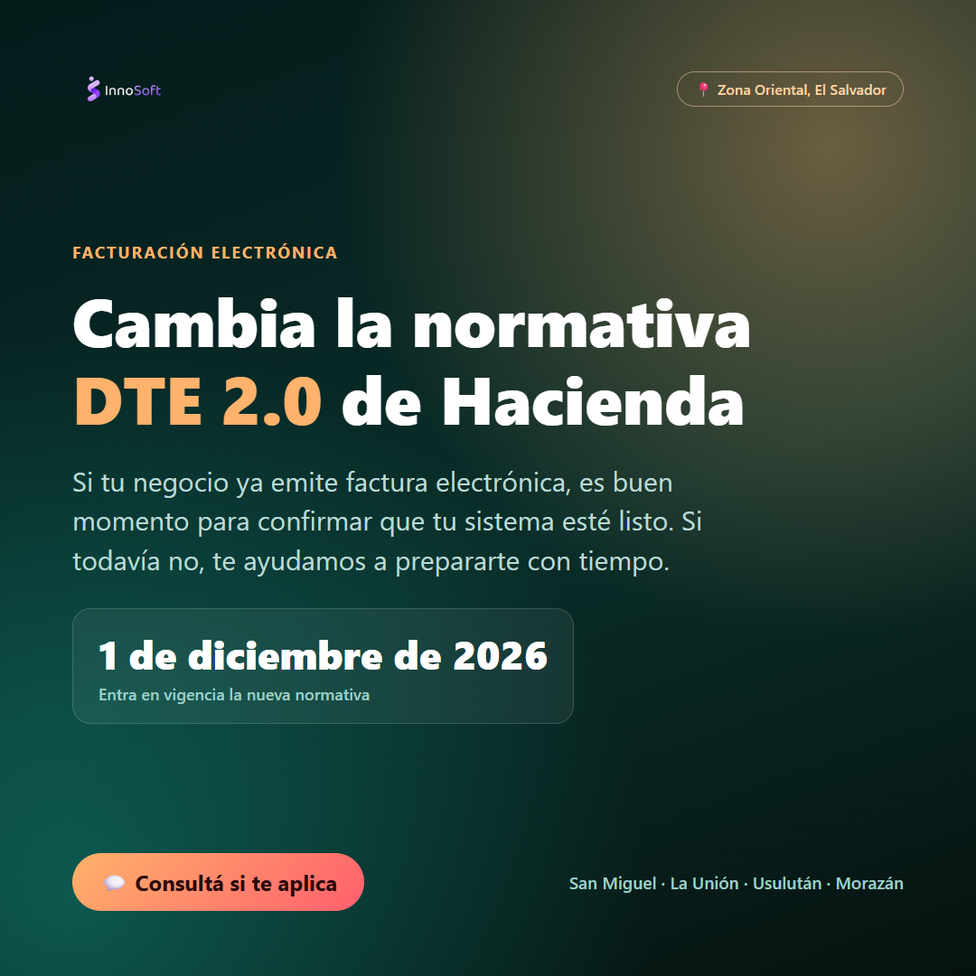
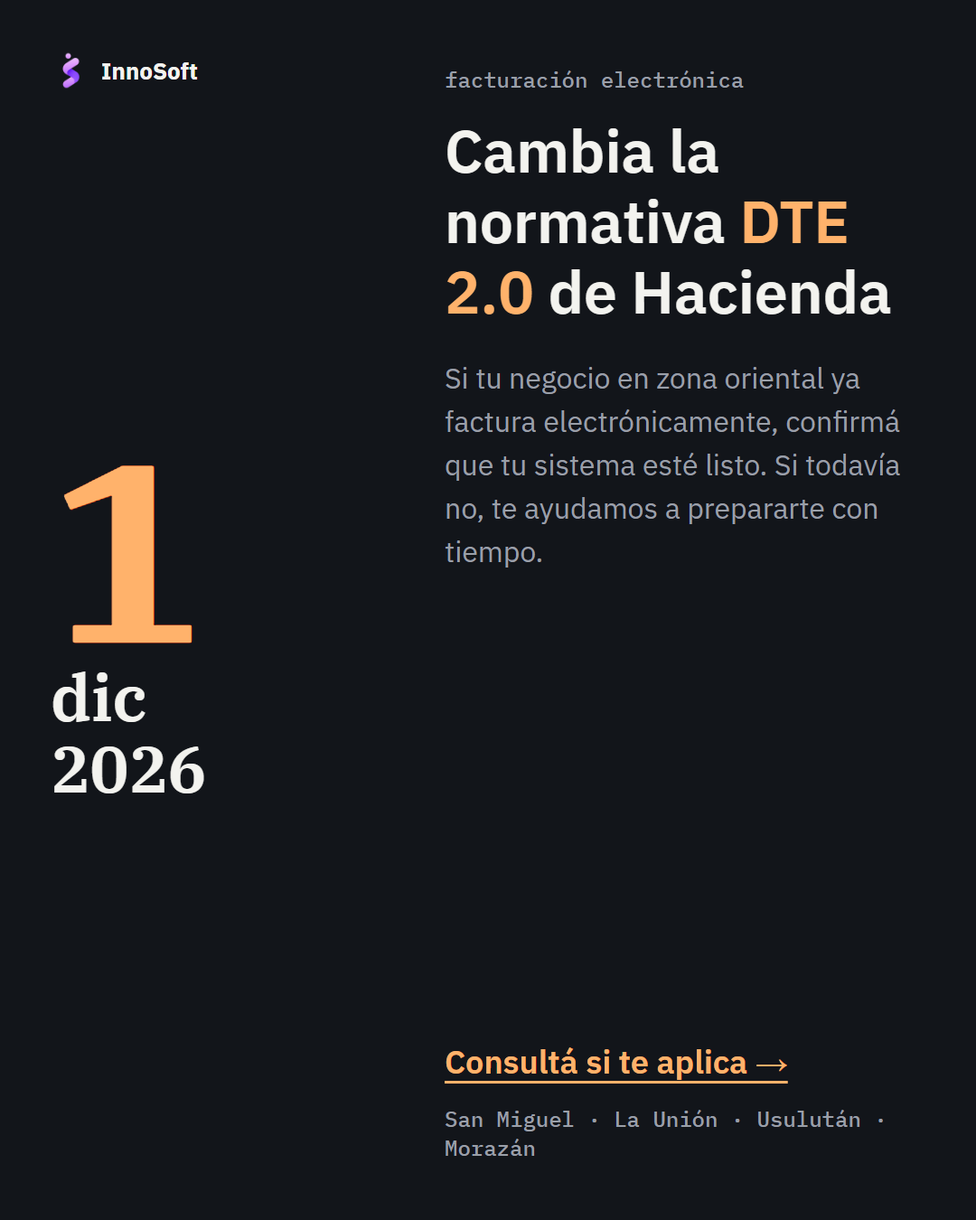
Redesign post templates: real IBM Plex/paper-ink-stamp system, not reskinned hero
Retires the single dark-gradient hero template (only bg/accent color ever
varied) after the user flagged it as repetitive/AI-looking. New direction
reuses the real site's own identity (paper/ink/stamp tokens, IBM Plex,
the real violet from invoice PDFs) instead of a separate dark-mode social
aesthetic, with composition chosen per message type (3 archetypes built:
price-as-document, date-as-calendar, service-as-index) rather than one
reused shape. Also fixes a real shipped WCAG failure (white text on
lavender, 2.10:1) and switches canvas size per real platform destination
(1080x1350 FB/IG, 1200x627 LinkedIn) instead of one-size-fits-all 1080x1080.

diff --git a/templates/archetype-a-cifra.html b/templates/archetype-a-cifra.html
@@ -1,0 +1,70 @@
+<!doctype html>
+<html>
+<head>
+<meta charset="utf-8">
+<link rel="preconnect" href="https://fonts.googleapis.com">
+<link href="https://fonts.googleapis.com/css2?family=IBM+Plex+Serif:wght@600;700&family=IBM+Plex+Sans:wght@400;500;600;700&family=IBM+Plex+Mono:wght@500;600&display=swap" rel="stylesheet">
+<style>
+  * { margin:0; padding:0; box-sizing:border-box; }
+  html,body { width:1080px; height:1350px; overflow:hidden; }
+  body {
+    font-family: 'IBM Plex Sans', Arial, sans-serif;
+    background: #f3f3ef;
+    color: #12151a;
+    padding: 72px 64px;
+    display:flex;
+    flex-direction:column;
+  }
+  .topbar { display:flex; align-items:center; gap:14px; }
+  .topbar img { height:40px; width:auto; display:block; }
+  .wordmark { font-family:'IBM Plex Sans'; font-weight:700; font-size:28px; color:#12151a; }
+  .rule { width:48px; height:1px; background:#12151a; opacity:.5; margin: 40px 0 16px; }
+  .kicker { font-family:'IBM Plex Mono'; font-weight:500; font-size:26px; color:#585d66; }
+  .figure-row { display:flex; align-items:baseline; gap:18px; margin-top: 12px; }
+  .figure { font-family:'IBM Plex Serif'; font-weight:700; font-size:220px; line-height:1; color:#12151a; }
+  .figure-unit { font-family:'IBM Plex Sans'; font-weight:500; font-size:44px; color:#585d66; }
+  .figure-caption { font-family:'IBM Plex Sans'; font-weight:400; font-size:36px; color:#585d66; margin-top: 8px; max-width: 820px; }
+  .tickets { margin-top: 56px; border-top: 1px solid rgba(18,21,26,.15); }
+  .ticket-row { display:flex; align-items:baseline; padding: 22px 0; border-bottom: 1px solid rgba(18,21,26,.15); }
+  .ticket-row .label { font-family:'IBM Plex Sans'; font-weight:500; font-size:34px; color:#12151a; white-space:nowrap; }
+  .ticket-row .dots { flex:1; border-bottom: 3px dotted #9a9a9a; margin: 0 16px; transform: translateY(-10px); }
+  .ticket-row .amount { font-family:'IBM Plex Mono'; font-weight:600; font-size:34px; color:#12151a; white-space:nowrap; }
+  .headline { font-family:'IBM Plex Sans'; font-weight:600; font-size:52px; line-height:1.25; color:#12151a; margin-top: 56px; max-width: 880px; }
+  .spacer { flex:1; }
+  .bottom { display:flex; align-items:center; justify-content:space-between; }
+  .cta { font-family:'IBM Plex Sans'; font-weight:600; font-size:38px; color:#5B21B6; text-decoration: underline; text-decoration-thickness: 3px; text-underline-offset: 8px; }
+  .locations { font-family:'IBM Plex Mono'; font-weight:500; font-size:26px; color:#585d66; text-align:right; }
+</style>
+</head>
+<body>
+  <div class="topbar">
+    <img src="../og-icon.png" alt="InnoSoft">
+    <div class="wordmark">InnoSoft</div>
+  </div>
+  <div class="rule"></div>
+  <div class="kicker">innosoft · facturación electrónica</div>
+  <div class="figure-row">
+    <div class="figure">$9.99</div>
+    <div class="figure-unit">/mes<br>desde</div>
+  </div>
+  <div class="figure-caption">Plan solo facturación electrónica — sin ERP, sin cotización a ciegas.</div>
+  <div class="tickets">
+    <div class="ticket-row">
+      <span class="label">Sistema completo + DTE</span>
+      <span class="dots"></span>
+      <span class="amount">$32/mes</span>
+    </div>
+    <div class="ticket-row">
+      <span class="label">Solo facturación (DTE)</span>
+      <span class="dots"></span>
+      <span class="amount">$9.99/mes</span>
+    </div>
+  </div>
+  <div class="headline">Ya tenés precio real, sin cotización a ciegas.</div>
+  <div class="spacer"></div>
+  <div class="bottom">
+    <div class="cta">Escribinos →</div>
+    <div class="locations">San Miguel · La Unión<br>Usulután · Morazán</div>
+  </div>
+</body>
+</html>

diff --git a/templates/archetype-b-fecha.html b/templates/archetype-b-fecha.html
@@ -1,0 +1,57 @@
+<!doctype html>
+<html>
+<head>
+<meta charset="utf-8">
+<link rel="preconnect" href="https://fonts.googleapis.com">
+<link href="https://fonts.googleapis.com/css2?family=IBM+Plex+Serif:wght@600;700&family=IBM+Plex+Sans:wght@400;500;600;700&family=IBM+Plex+Mono:wght@500;600&display=swap" rel="stylesheet">
+<style>
+  * { margin:0; padding:0; box-sizing:border-box; }
+  html,body { width:1080px; height:1350px; overflow:hidden; }
+  body {
+    font-family: 'IBM Plex Sans', Arial, sans-serif;
+    background: #12151a;
+    color: #f3f3ef;
+    display:flex;
+    position:relative;
+  }
+  .brandmark { position:absolute; top:56px; left:56px; display:flex; align-items:center; gap:12px; }
+  .brandmark img { height:44px; width:44px; object-fit:contain; display:block; }
+  .brandmark .wordmark { font-family:'IBM Plex Sans'; font-weight:700; font-size:26px; color:#f3f3ef; }
+  .left {
+    width: 460px; padding: 64px 0 64px 56px;
+    display:flex; flex-direction:column; justify-content:center;
+  }
+  .day { font-family:'IBM Plex Serif'; font-weight:700; font-size:280px; line-height:0.9; color:#ffb26b; }
+  .monthyear { font-family:'IBM Plex Serif'; font-weight:600; font-size:72px; line-height:1.1; color:#f3f3ef; margin-top: 12px; }
+  .right {
+    flex:1; padding: 72px 56px 64px 32px;
+    display:flex; flex-direction:column;
+  }
+  .kicker { font-family:'IBM Plex Mono'; font-weight:500; font-size:24px; color:#9a9fa8; }
+  .headline { font-family:'IBM Plex Sans'; font-weight:600; font-size:66px; line-height:1.18; color:#f3f3ef; margin-top: 24px; }
+  .headline .accent { color: #ffb26b; }
+  .support { font-family:'IBM Plex Sans'; font-weight:400; font-size:32px; line-height:1.5; color:#9a9fa8; margin-top: 32px; max-width: 560px; }
+  .spacer { flex:1; }
+  .cta { font-family:'IBM Plex Sans'; font-weight:600; font-size:36px; color:#ffb26b; text-decoration: underline; text-decoration-thickness: 3px; text-underline-offset: 8px; }
+  .locations { font-family:'IBM Plex Mono'; font-weight:500; font-size:24px; color:#9a9fa8; margin-top: 24px; }
+</style>
+</head>
+<body>
+  <div class="brandmark">
+    <img src="../og-icon.png" alt="InnoSoft">
+    <div class="wordmark">InnoSoft</div>
+  </div>
+  <div class="left">
+    <div class="day">1</div>
+    <div class="monthyear">dic<br>2026</div>
+  </div>
+  <div class="right">
+    <div class="kicker">facturación electrónica</div>
+    <div class="headline">Cambia la normativa <span class="accent">DTE 2.0</span> de Hacienda</div>
+    <div class="support">Si tu negocio en zona oriental ya factura electrónicamente, confirmá que tu sistema esté listo. Si todavía no, te ayudamos a prepararte con tiempo.</div>
+    <div class="spacer"></div>
+    <div class="cta">Consultá si te aplica →</div>
+    <div class="locations">San Miguel · La Unión · Usulután · Morazán</div>
+  </div>
+</body>
+</html>

diff --git a/templates/archetype-e-indice.html b/templates/archetype-e-indice.html
@@ -1,0 +1,60 @@
+<!doctype html>
+<html>
+<head>
+<meta charset="utf-8">
+<link rel="preconnect" href="https://fonts.googleapis.com">
+<link href="https://fonts.googleapis.com/css2?family=IBM+Plex+Sans+Condensed:wght@700&family=IBM+Plex+Sans:wght@400;500;600;700&family=IBM+Plex+Mono:wght@500;600&display=swap" rel="stylesheet">
+<style>
+  * { margin:0; padding:0; box-sizing:border-box; }
+  html,body { width:1200px; height:627px; overflow:hidden; }
+  body {
+    font-family: 'IBM Plex Sans', Arial, sans-serif;
+    background: #5B21B6;
+    color: #fff;
+    padding: 48px 64px;
+    display:flex;
+    flex-direction:column;
+  }
+  .topbar { display:flex; align-items:center; gap:12px; }
+  .topbar img { height:36px; width:36px; object-fit:contain; display:block; }
+  .wordmark { font-family:'IBM Plex Sans'; font-weight:700; font-size:24px; color:#fff; }
+  .kicker { font-family:'IBM Plex Mono'; font-weight:500; font-size:20px; color:#d9c9ff; margin-top: 28px; }
+  .headline { font-family:'IBM Plex Sans Condensed'; font-weight:700; font-size:50px; line-height:1.08; color:#fff; margin-top: 10px; max-width: 760px; }
+  .items { display:flex; gap:40px; margin-top: 36px; }
+  .item { flex:1; }
+  .item .num { font-family:'IBM Plex Mono'; font-weight:600; font-size:30px; color:#ffb26b; }
+  .item .label { font-family:'IBM Plex Sans'; font-weight:500; font-size:24px; line-height:1.35; color:#fff; margin-top: 8px; }
+  .spacer { flex:1; }
+  .bottom { display:flex; align-items:center; justify-content:space-between; }
+  .cta { font-family:'IBM Plex Sans'; font-weight:600; font-size:26px; color:#ffb26b; text-decoration: underline; text-decoration-thickness: 2px; text-underline-offset: 6px; }
+  .locations { font-family:'IBM Plex Mono'; font-weight:500; font-size:18px; color:#d9c9ff; }
+</style>
+</head>
+<body>
+  <div class="topbar">
+    <img src="../og-icon.png" alt="InnoSoft">
+    <div class="wordmark">InnoSoft</div>
+  </div>
+  <div class="kicker">nuevo servicio</div>
+  <div class="headline">Tu negocio también necesita presencia real en internet</div>
+  <div class="items">
+    <div class="item">
+      <div class="num">01</div>
+      <div class="label">Diseño real, adaptado a tu negocio — nunca una plantilla genérica.</div>
+    </div>
+    <div class="item">
+      <div class="num">02</div>
+      <div class="label">Hosting en la misma infraestructura que ya operamos para nuestros sistemas.</div>
+    </div>
+    <div class="item">
+      <div class="num">03</div>
+      <div class="label">Dominio al costo real del registrador, sin margen oculto.</div>
+    </div>
+  </div>
+  <div class="spacer"></div>
+  <div class="bottom">
+    <div class="cta">Mensaje directo →</div>
+    <div class="locations">San Miguel · La Unión · Usulután · Morazán</div>
+  </div>
+</body>
+</html>

diff --git a/templates/README.md b/templates/README.md
@@ -4,36 +4,66 @@ Created 2026-09-09 after the user rightly pointed out that raw screenshots don't
 
 **Why HTML/CSS instead of an AI image generator** (explicit decision, see the 2026-09-09 conversation): an AI generator is exactly where the problems we want to avoid show up — badly written text, illogical elements, a "generated" look. A code template doesn't carry that risk — it either renders correctly or it doesn't. It also doesn't depend on any paid external quota/service — it can be generated as many times as needed, for free. It still complies with the hard rule in `../politica-imagenes-ia.md`: this isn't an AI-image case, it's real design + a real screenshot.
 
-## The 3 templates
+## 2026-10-01 — system redesign: "documento, no sección de hero" (read this first)
 
-1. **`hero-con-captura.html`** — headline + subheadline + real screenshot inside a browser mockup (bar with 3 dots + label) + CTA button + zone. Uses `.mockup-crop { height: Npx; overflow:hidden }` to crop the screenshot from the top (avoids showing zeroed-out figures that tend to sit further down in the real dashboard).
-2. **`hero-con-captura-recorte-lateral.html`** — same as above, but for screenshots where what matters is off to one side (e.g. a value panel next to a login form). Uses `background-image` + `background-size`/`background-position` instead of `<img>` to crop with pixel precision from any edge — more control than `object-fit`.
-3. **`tipografico-sin-captura.html`** — no mockup or screenshot, just a large headline + subheadline + CTA. Use when there's no real screenshot that reinforces the message without feeling forced (e.g. educational/awareness messages) — better to be honest and skip a mockup that adds nothing than to fabricate content or show a screen with errors/half-configured states.
+**The old system (one dark-gradient hero template, only the bg/accent color rotated) was retired after the user flagged it directly: "estás usando el mismo patrón para todas las publicaciones, la misma paleta de colores, parece generado por IA. Debes ser creativo."** A design review (via the `innosoft-design` agent) confirmed the real cause wasn't the color choice — it was that every piece was the identical composition (logo top-left, badge top-right, uppercase tag repeating the headline, big headline with 1-2 accent words, pill-shaped gradient CTA, aurora-glow dark background). That's the default "hero section pasted into a square" shape any generic generator produces. Full root-cause list (worth re-reading before adding a 4th archetype): emoji render as a blurry blob in Playwright's output, the pill CTA is a fake unclickable UI control sitting inside a feed image, the uppercase tag/headline redundancy is filler-not-editing, and the single system font (`Segoe UI`) didn't match the real site's IBM Plex — someone clicking from a post landed on a site that looked like a different company.
 
-## Brand tokens (always reuse, never invent new colors unless the user asks)
-- Logo: **use the real file `../logo-header.png`** (`<img src="../logo-header.png">`, ~52px tall) — never a CSS gradient square as a placeholder. Fixed 2026-09-17: the user pointed out the gradient square "feels too AI-generated"; the real logo already exists in `assets/branding/` (also `og-icon.png` 400×400 if only the square icon is needed, and `logo-footer.png`).
-- Text: white `#fff` (headlines), `#cfc3e8`/`#b7a9d6` (subheadlines/secondary).
-- Canvas size: **1080×1080px** (works for Facebook and Instagram without odd cropping).
-- **Background: vary between posts, never repeat the same one every time** (correction 2026-09-17, the user noticed every image looked the same). Authorized background palettes, alternate depending on the post:
-  - **Violet (original):** `radial-gradient(circle at 85% 15%, rgba(255,178,107,0.35) 0%, rgba(255,178,107,0) 40%), radial-gradient(circle at 10% 90%, rgba(124,58,237,0.35) 0%, rgba(124,58,237,0) 45%), linear-gradient(160deg, #0d0620 0%, #170a30 55%, #0d0620 100%)`.
-  - **Teal (added 2026-09-17):** `radial-gradient(circle at 85% 15%, rgba(255,178,107,0.4) 0%, rgba(255,178,107,0) 42%), radial-gradient(circle at 8% 92%, rgba(20,184,166,0.35) 0%, rgba(20,184,166,0) 45%), linear-gradient(160deg, #041b1a 0%, #0a2e2a 55%, #06120f 100%)`.
-  - When adding a new palette, keep the coral glow in the top-right corner (constant visual identity) and only vary the base `linear-gradient` + the second glow.
+**New direction: posts are documents/posters that borrow the site's own real identity, not a separate "dark mode for social" aesthetic.** Reuses tokens already live in production (`F:\Dev\innosoft-landing\src\app\globals.css`, `pdf.service.ts`), never invented:
 
-**Accent/CTA — two authorized variants, pick based on need:**
-- **Lavender (original, 2026-09-09):** `linear-gradient(135deg, #c4a4f5, #7c3aed)`, radial glows in `rgba(196,164,245,*)`/`rgba(124,58,237,*)`, accent text `#d4c1f9`. "Premium/tech" look — use if the post already looks good this way, no reason to change it.
-- **Coral/amber (high contrast, added 2026-09-14 at the user's request):** `linear-gradient(135deg, #ffb26b, #ff5f6d)`, radial glow in `rgba(255,178,107,0.35)`, accent text `#ffb26b`. Reason: the user pointed out that lavender on a purple background doesn't stand out enough in-feed — coral/amber gives much more contrast against the dark background without losing the identity (same background, same logo). **Use this variant by default on new posts** until told otherwise; lavender stays available for cases where a more sober tone is preferred (e.g. very formal LinkedIn, though coral's first use was already on LinkedIn without issue).
+| Surface | Background | Text / accent (measured contrast) | Use for |
+|---|---|---|---|
+| **Papel** (paper) | `#f3f3ef` | ink `#12151a` 16.4:1 · secondary `#585d66` 5.9:1 · stamp `#bf3f24` 4.77:1 (≥40px only) · violet `#5B21B6` 8.06:1 | Price/hard-figure pieces |
+| **Tinta** (ink) | `#12151a` | `#f3f3ef` · secondary `#9a9fa8` 6.9:1 · coral `#ffb26b` 10.3:1 | Dates, regulatory deadlines |
+| **Noche violeta** (the old dark bg, glows removed) | `#0d0620` | white · `#cfc3e8` · coral `#ffb26b` 11.2:1 | Awareness/question posts |
+| **Violeta pleno** (the real invoice-PDF ink color) | `#5B21B6` | white 8.97:1 · coral 5.05:1 (large text only) | New-service announcements |
+| **Verde azulado** (Couriera's own brand, `#0d7c85`/`#2ab7c2`) | flat, no gradient | white · `#2ab7c2` | **Couriera posts only** — this is a different product's color, never a "second background option" for ERP/DTE posts (that mixing was a real mistake in the old system) |
 
-## Mandatory QA checklist before publishing ANY image (hard rule, 2026-09-17)
+Typography: **IBM Plex Serif/Sans/Sans Condensed/Mono**, loaded from Google Fonts CDN in the HTML `<head>` (same family the real site uses via `next/font/google`, no local font files committed — see `src/lib/fonts.ts` in `innosoft-landing` if self-hosting is ever needed). No more system-font fallback as the only look.
 
-Consolidated after the 2026-09-17 premortem exercise (see `../../strategy/plan-crecimiento-2026-09.md`) — previously scattered between this page and session memory, now a permanent project rule, regardless of whether the image was made with the HTML/CSS templates here or with Canva:
+**Composition is chosen by message type, never a single reused shape.** Two archetypes built and in active use (more below under "Archetypes"); 4 more are designed but not yet built (no current post needs them — see the agent's full report, kept in this session's history, for archetypes C/D/F). **Rule: never run the same archetype twice in a row, and add an `"archetype"` field to each `calendar.json` entry** so this is enforceable, not just remembered.
 
-1. **Is the logo the real file, never a placeholder?** (see the logo rule above — never a CSS square or a generic icon).
-2. **Was the text contrast actually measured against any colored background, not just "it looks fine by eye"?** Hard color rule: **dark text `#2b0a0a` on the coral accent** (never white — white on coral measures ~2.7:1, fails WCAG; dark measures 6.2–10.3:1). On the dark brand background, white or gray ≥`#9a9a9a` (≥7:1). If a new accent is introduced, calculate the real contrast (don't assume it), not just eyeball it.
+**What's fixed as a direct consequence:**
+- The pill-button CTA and every emoji inside an image are gone — CTAs are now a plain text link in the accent color with an underline and a `→`, legible and honest about not being a real button.
+- The uppercase uppercase-tag-repeats-headline pattern is gone.
+- The zone was shown twice (badge + list) — now a single footer registry strip, `IBM Plex Mono`, real department names, never duplicated.
+- The logo now has a fixed brand-mark position (not vertically centered with other content, which could float it to odd positions) and uses `og-icon.png` (the isotype, has real alpha transparency, works on both light and dark surfaces) instead of `logo-header.png` on light backgrounds, since that file's wordmark is near-white and disappears on paper.
+
+**Canvas size is no longer one-size-fits-all across platforms (added after the user flagged this directly: "hay que considerar las dimensiones de cada red social").** Verified live 2026-10-01 (not assumed from memory, specs change):
+- **Facebook + Instagram feed (shared image): 1080×1350px (4:5).** Instagram changed its profile grid to a 3:4 crop in January 2026, so a square 1080×1080 image now loses content at the edges in-profile; 4:5 is the current real recommendation for both networks.
+- **LinkedIn feed: 1200×627px (1.91:1 landscape)** — a real different shape, not 4:5. Don't reuse an IG/FB asset for LinkedIn or vice versa.
+
+## Archetypes (composition patterns, pick by message type — not by which looks unused)
+
+1. **`archetype-a-cifra.html`** (Papel, 1080×1350) — a hard number is the actual news (a price, a volume, a count). The number itself is the biggest element on the page (IBM Plex Serif, ~220px), with supporting figures below as dotted-leader ticket rows (`label ........ amount`, like a real receipt) — never buried inside a small card under an abstract headline. **Always re-verify every figure against `catalog/productos-y-servicios.md` right before rendering** — a $22-vs-$32 pricing error already shipped once this way (see History).
+2. **`archetype-b-fecha.html`** (Tinta, 1080×1350) — a real date/deadline is the news (a regulatory change, a compliance window). Left column: the day number huge in Plex Serif + month/year stacked in coral, functioning like a wall calendar page. Right column: headline + one supporting paragraph + text-link CTA + footer. Consultative tone only — no red, no exclamation marks, this is a heads-up, not a threat (same lesson as the 2026-09-17 "amenazante" correction below, now structurally enforced by the surface choice, not just the words).
+3. **`archetype-e-indice.html`** (Violeta pleno, 1200×627 — **LinkedIn only, this is the 1.91:1 canvas**) — announcing a new service/offering. A short headline + a real numbered list (`01/02/03`) of concrete, catalog-real inclusions — never a vague slogan. This is what replaced the old pill-button "nuevo servicio" post.
+
+**Still pending, not yet built because no current post needs them** (do the design work for real when one does — don't reuse archetype A/B/E outside their intended message type just because they already exist):
+- **Archetype C ("pregunta")** — pure awareness/question posts, noche-violeta surface, headline-only poster, no subhead (subhead moves to the post's own caption text).
+- **Archetype D ("producto real")** — posts with an actual product screenshot. Rebuild `hero-con-captura.html`/`hero-con-captura-recorte-lateral.html` to drop the fake Mac browser-window chrome (3 dots) and the coral halo around the screenshot — both are generic-mockup tells — and let the screenshot bleed off the canvas edge instead of floating in a framed box.
+- **Archetype F ("territorio")** — paid/geo-targeted campaigns, a real outline of the 4 Zona Oriental departments instead of a 📍 badge. **Needs real geographic boundary data (e.g. geoBoundaries/OSM) with its license/attribution checked first** — not yet sourced, don't hand-draw or AI-generate a map outline as a substitute.
+
+## Brand tokens still in force for anything NOT yet migrated to an archetype above
+(`hero-con-captura.html`, `hero-con-captura-recorte-lateral.html`, and the original `tipografico-sin-captura.html` default — until archetypes C/D replace them)
+- Logo: `../logo-header.png` on dark backgrounds only (`<img src="../logo-header.png">`, ~52px tall) — never a CSS gradient square. On light/paper backgrounds use `../og-icon.png` instead (the wordmark in `logo-header.png` is near-white, invisible on paper).
+- Canvas size for anything using these legacy templates: still 1080×1080 until migrated — but prefer building the real archetype instead of a new 1080×1080 piece.
+- Old dark violet/teal backgrounds + lavender/coral accents: see git history of this file for the exact gradient strings if a legacy piece needs re-rendering as-is. **Don't use the teal variant for non-Couriera posts going forward** (it's Couriera's real brand color, not a generic "second background," per the correction above).
+
+## Mandatory QA checklist before publishing ANY image (updated 2026-10-01)
+
+Consolidated after the 2026-09-17 premortem exercise and the 2026-10-01 design review — permanent project rule regardless of whether the image came from these templates or from Canva:
+
+1. **Is the logo the real file, never a placeholder?** — `og-icon.png` on light surfaces, `logo-header.png` only on dark surfaces.
+2. **Was contrast actually measured for every text/background combo used, not just the ones already documented above?** If a new surface or accent is introduced, calculate the real WCAG ratio (don't eyeball it) — this already caught one real shipped failure (white on lavender, 2.10:1, see History).
 3. **Is there any zeroed-out data, empty field, or invented URL/figure/client?**
-4. **Does the image's copy match the post/ad's real copy?**
-5. **Was the image opened at full size (not just as a thumbnail) before calling it good?** (see `feedback_verify_images_full_size` in memory — a real customer reported 4 broken images that looked fine as thumbnails).
+4. **Does the image's copy match the post/ad's real copy, and was every specific number/date re-verified against its source right before rendering** (not just at drafting time)?
+5. **Was the image opened at full size (not just as a thumbnail) before calling it good?**
+6. **No emoji anywhere in the image**, and no fake button/pill UI control — CTAs are a text link.
+7. **Is any text smaller than ~36px on the 1080/1200-wide canvas?** (≈13px at real mobile feed width) — if so, it won't be legible in-feed; move it to the post's caption text instead or enlarge it.
+8. **Is this the same composition/archetype as the immediately preceding post?** If so, stop and pick a different one — never the same archetype twice in a row.
+9. **Is the canvas the right size for the actual destination platform(s)** — 1080×1350 for Facebook/Instagram, 1200×627 for LinkedIn — not a reused asset from the other shape?
 
-If anything fails on any of these 5 points, it doesn't get published — fix it and regenerate.
+If anything fails on any of these points, it doesn't get published — fix it and regenerate.
 
 ## Generating with Canva (alternative to the HTML/CSS templates, since 2026-09-17)
 
@@ -46,12 +76,12 @@ For pieces where the user explicitly asked for a "premium" level the HTML/CSS te
 6. `export-design` can fail with "Not allowed to access design" right after a commit (propagation delay) — retry without explicit `width`/`height` (native export) first.
 
 ## How to generate a new image (HTML/CSS templates)
-1. Copy the most suitable template, adjust headline/subheadline/CTA/zone to the post's real copy (never invent figures/clients — same rules as the copy, see `../../catalog/productos-y-servicios.md`).
-2. If it uses a screenshot: `node embed-image.js template.html ../2026-XX-XX-screenshot.png output.html`.
-3. Serve the HTML locally (e.g. a simple static server on a free port — `file://` doesn't work with the Chrome extension) and render at 1080×1080 with Playwright (`browser_resize` to 1080×1080 before every screenshot — the viewport doesn't persist across navigations) or with claude-in-chrome.
-4. **Review visually before calling it good:** is any data zeroed-out or half-configured? any invented URL or figure? text cut off at the edges? does the post's message match the image's? If anything fails, adjust the crop/copy and re-render — never publish with a known visual defect.
+1. Pick the archetype that matches the message type (see table above), not whichever file is already open. Adjust copy to the post's real text (never invent figures/clients — same rules as the copy, see `../../catalog/productos-y-servicios.md`) — **re-verify every number/date against its real source right before rendering**, don't trust what was drafted earlier in the conversation.
+2. If it uses a screenshot (archetype D): `node embed-image.js template.html ../2026-XX-XX-screenshot.png output.html`.
+3. Serve the HTML locally (a simple static server on a free port — `file://` doesn't work with Playwright/the Chrome extension) and render with Playwright (preferred — it's a separate browser, so it doesn't disturb whatever tab the user has open; `browser_resize` **before every screenshot**, the viewport doesn't persist across navigations) at the size that matches the real destination: **1080×1350 for Facebook/Instagram, 1200×627 for LinkedIn**.
+4. Run the full QA checklist above before calling it good — not just "does it look fine."
 5. Save the final PNG in `../` (the assets folder) named `YYYY-MM-DD-post-<slug>.png`, `git add/commit/push` from `assets/branding/`, verify with `curl -o /dev/null -w "%{http_code}"` that the raw URL returns 200.
-6. Update the corresponding post's `imageUrl` in `../../automation/scripts/calendar.json`.
+6. Update the corresponding post's `imageUrl` **and `archetype`** fields in `../../automation/scripts/calendar.json`.
 
 ## History
 - 2026-09-09: first generation — `2026-09-10-post-erp-dte.png` (ERP/DTE, real dashboard cropped to avoid showing "$0.00"), `2026-09-10-post-couriera.png` (value panel from Couriera's login screen, side crop), `2026-09-10-post-dte-educativo.png` (typographic, no screenshot — the real DTE invoice one showed "DTE: PENDING" and a list of missing configuration, unusable).
@@ -63,3 +93,4 @@ For pieces where the user explicitly asked for a "premium" level the HTML/CSS te
   3. *(the user said) "that box you put before InnoSoft feels too AI-generated"* — the `.logo-mark` (a CSS gradient square, no real logo) was replaced in all 3 templates with the real file `../logo-header.png`. Never use a placeholder there again, the real logo was always available in `assets/branding/`.
 - 2026-10-01: **second content batch (lote 2), 3 new images, all typographic (no screenshot adds value to any of these 3 stories):** `2026-10-01-post-precio-real.png` (first post ever to cite real pricing, $9.99/mo DTE-only — small price-card UI elements added inline in a one-off variant of `tipografico-sin-captura.html`, violet bg + coral accent), `2026-10-01-post-dte-plazo-dic2026.png` (real verified DTE 2.0 deadline, 1-dic-2026, with a date-badge element, teal bg + coral accent), `2026-10-01-post-diseno-web.png` (first post for the new website-design-and-hosting service, violet bg + lavender accent — more sober tone, matches LinkedIn placement). Rendered via Playwright (not claude-in-chrome) at exactly 1080×1080 to avoid disturbing the user's own open Chrome tab/window — see `project_auto_greeting_active`/`feedback_dont_close_shared_tabs` in persistent memory for why. The 3 one-off HTML files were deleted after rendering (not meant to be reused as base templates); only the final PNGs were committed. Full copy: `content-calendar/copy-final-lote2.md`.
 - 2026-10-01 (same day, before publishing): **real pricing error caught by the mandatory pre-publish review, requested by the user before post-8 could fire on its own.** `post-precio-real.png`'s "Sistema completo" price card said $22/mes — that's the ERP-only Starter price (no DTE); the plan that actually bundles DTE (what the post's own headline promises) is $32/mes (ERP_FE_STARTER, see `catalog/productos-y-servicios.md`). Re-rendered with the correct $32 and re-pushed (same filename, new commit) — the calendar.json message text for post-8/post-8-ig was fixed in the same pass. Lesson: a real, specific number is exactly the kind of claim that needs re-verifying against the source of truth before it ships, even when it was "approved" earlier in the drafting process — approval of the angle/copy draft isn't the same as approval of every digit in it.
+- 2026-10-01 (later same day): **full system redesign**, triggered by the user calling out the repeated-template problem directly ("parece generado por IA. Debes ser creativo") right as post-10 was about to be published. A real, concrete defect was found in the piece about to ship — white CTA text on the lavender gradient measured 2.10:1 contrast, a WCAG failure already live in `2026-10-01-post-diseno-web.png` — on top of the deeper compositional sameness problem. See the big section above ("system redesign: documento, no sección de hero") for the full new token/archetype system. `archetype-a-cifra.html`/`archetype-b-fecha.html`/`archetype-e-indice.html` replace the one-off variants used for post-8/post-9/post-10 — `post-precio-real.png`, `post-dte-plazo-dic2026.png`, and `post-diseno-web.png` were all re-rendered at their platform-correct sizes (1080×1350 / 1080×1350 / 1200×627) and re-pushed under the same filenames.
